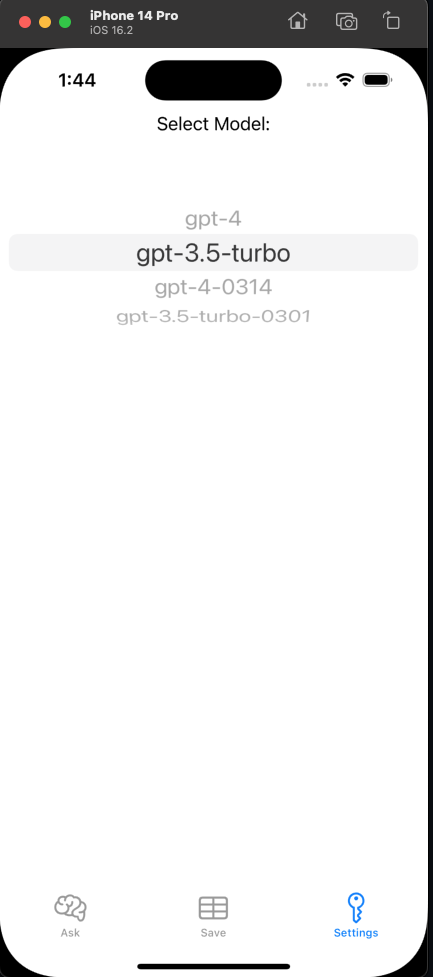
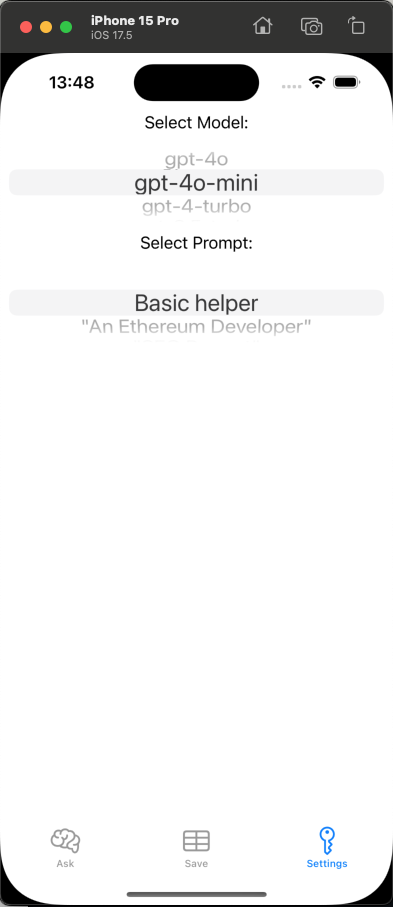
newest models

diff --git a/chatgpt-ios/SettingsViewController.swift b/chatgpt-ios/SettingsViewController.swift
@@ -34,7 +34,7 @@ class SettingsViewController: UIViewController, UIPickerViewDataSource, UIPicker
         selectPrompt.delegate = self
         selectPrompt.dataSource = self
         
-        data = ["gpt-4", "gpt-3.5-turbo","gpt-4-0314","gpt-3.5-turbo-0301"]
+        data = ["gpt-4o", "gpt-4o-mini","gpt-4-turbo","gpt-3.5-turbo"]
                
         dataPrompts = []
         dataShorts = []
@@ -237,7 +237,7 @@ class SettingsViewController: UIViewController, UIPickerViewDataSource, UIPicker
             if model.count == 0{
                 let currentModel = NSEntityDescription.entity(forEntityName: "CurrentModel", in: context)!
                 let c = CurrentModel(entity: currentModel, insertInto: context)
-                c.model = "gpt-4"
+                c.model = "gpt-4o"
                 self.currentModel = c
                 do {
                     try context.save()
@@ -252,7 +252,7 @@ class SettingsViewController: UIViewController, UIPickerViewDataSource, UIPicker
             print("Could not fetch. \(error), \(error.userInfo)")
         }
         
-        return "gpt-4"
+        return "gpt-4o"
 
     }
     

diff --git a/chatgpt-ios/AskViewController.swift b/chatgpt-ios/AskViewController.swift
@@ -20,7 +20,7 @@ class AskViewController: UIViewController, UITextViewDelegate {
     var currentQuestion = ""
     var api:ChatGPTAPI!
     var isDataSaved = false
-    var modelName = "gpt-4"
+    var modelName = "gpt-4o"
     var promptName = "You're a helpful assistant"
     var modelChangedHandler: ((String) -> Void)?
     let context = (UIApplication.shared.delegate as! AppDelegate).persistentContainer.viewContext
@@ -60,8 +60,8 @@ class AskViewController: UIViewController, UITextViewDelegate {
             if model.count == 0{
                 let currentModel = NSEntityDescription.entity(forEntityName: "CurrentModel", in: context)!
                 let c = CurrentModel(entity: currentModel, insertInto: context)
-                c.model = "gpt-4"
-                self.modelName = "gpt-4"
+                c.model = "gpt-4o"
+                self.modelName = "gpt-4o"
                 do {
                     try context.save()
                 } catch let error as NSError {

diff --git a/chatgpt-ios/SceneDelegate.swift b/chatgpt-ios/SceneDelegate.swift
@@ -11,7 +11,7 @@ class SceneDelegate: UIResponder, UIWindowSceneDelegate {
 
     var window: UIWindow?
     
-    var currentModel:String = "gpt-4"
+    var currentModel:String = "gpt-4o"
 
     func scene(_ scene: UIScene, willConnectTo session: UISceneSession, options connectionOptions: UIScene.ConnectionOptions) {
         // Use this method to optionally configure and attach the UIWindow `window` to the provided UIWindowScene `scene`.
